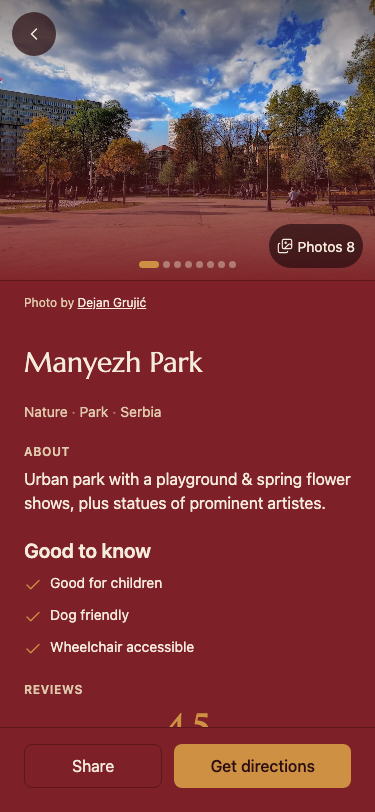
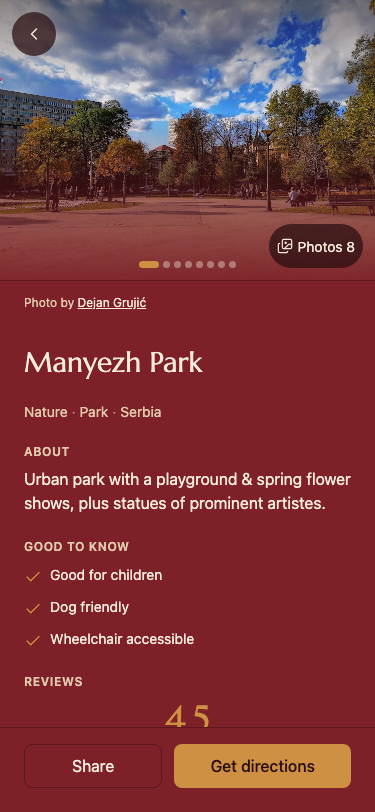
fix(app): Nightlife Open-tonight chip + unique-section heading tokens (T7 resolve)
- nightlifeTonightChip() reads open_tonight independent of opening_hours
  usability so the meta chip and HoursRow render together, per the mockup
  (was suppressed whenever structured hours were usable).
- UniqueSection heading now matches ProseBlock's muted overline tokens
  instead of a loud fontSize.lg/cream/600 treatment.
- Derive the 13-category exclusivity test array from CATEGORY_LABELS.
- Wrap priceContextLine's nested ternary, record Tours-level-chip deferral
  to T10.

Changed region(s): [[0.0587, 0.6466, 0.528, 0.8005], [0.0587, 0.8313, 0.2347, 0.8621], [0.44, 0.8621, 0.5573, 0.8929]]

diff --git a/app/src/features/activity-list/activityDetailConfig.test.ts b/app/src/features/activity-list/activityDetailConfig.test.ts
@@ -1,11 +1,14 @@
 import { Clock } from 'lucide-react-native';
 import type { Activity, OpeningHours } from '../../api/activities';
+import { CATEGORY_LABELS } from './filters';
+import type { Category } from './types';
 import {
   bodySectionOrder,
   factStripFields,
   goodToKnowSection,
   kidsAgeLabel,
   metaLineLeadItems,
+  nightlifeTonightChip,
   openStatus,
   priceContextLine,
   subtypeLabel,
@@ -178,6 +181,47 @@ describe('openStatus — structured opening_hours', () => {
   it('returns undefined for an activity with no details at all', () => {
     const activity = baseActivity(undefined);
     expect(openStatus(activity)).toBeUndefined();
+  });
+});
+
+// T7 round-2 fix: distinct from `openStatus` — reads `open_tonight` directly
+// so it renders alongside HoursRow instead of losing to (or superseding) the
+// generic hours-derived status.
+describe('nightlifeTonightChip', () => {
+  it('reads "Open tonight" from the static flag even when opening_hours is also usable', () => {
+    const activity = baseActivity({
+      category: 'nightlife',
+      open_tonight: true,
+      opening_hours: {
+        timezone: 'UTC',
+        periods: [{ day: 'monday', open: '22:00', close: '06:00' }],
+      },
+    });
+    expect(nightlifeTonightChip(activity)).toEqual({ text: 'Open tonight', isOpen: true });
+  });
+
+  it('reads "Closed tonight" from the static flag even when opening_hours computes Open', () => {
+    jest.useFakeTimers().setSystemTime(MONDAY_NOON_UTC);
+    const activity = baseActivity({
+      category: 'nightlife',
+      open_tonight: false,
+      opening_hours: {
+        timezone: 'UTC',
+        periods: [{ day: 'monday', open: '09:00', close: '17:00' }],
+      },
+    });
+    expect(nightlifeTonightChip(activity)).toEqual({ text: 'Closed tonight', isOpen: false });
+    jest.useRealTimers();
+  });
+
+  it('is undefined for a non-nightlife category regardless of open_tonight', () => {
+    const activity = baseActivity({ category: 'restaurants', open_status: 'Open now' });
+    expect(nightlifeTonightChip(activity)).toBeUndefined();
+  });
+
+  it('is undefined when nightlife has no open_tonight flag', () => {
+    const activity = baseActivity({ category: 'nightlife' });
+    expect(nightlifeTonightChip(activity)).toBeUndefined();
   });
 });
 
@@ -1076,24 +1120,19 @@ describe('uniqueSection — nightlife/nature/sport (T7)', () => {
 // T7 cross-check: the spec is explicit that the difficulty meter is Sport's
 // alone ("no category shows both" it and Tours' level chip) — pins that at
 // the promote-mechanism level, alongside ActivityDetailScreen.test.tsx's
-// render-level check.
+// render-level check. The AC's other half ("Tours & Experiences uses the
+// level chip instead") isn't asserted here or anywhere in T7: Tours has no
+// `ActivityDetails` variant / screen composition yet (T10's job, a separate
+// concurrent task). T10 (PR #134) owns that assertion directly — its Tours
+// composition test asserts `queryByLabelText(/^Difficulty:/)` is null on a
+// Tours row rendering the level chip — so it isn't duplicated here.
 describe('difficulty meter exclusivity — Sport only (T7 cross-check)', () => {
   it('is the promoted slot for sport and never appears in any other category\'s body order', () => {
-    const allCategories: Activity['category'][] = [
-      'restaurants',
-      'bars',
-      'cafes',
-      'nightlife',
-      'nature',
-      'sport',
-      'kids',
-      'culture',
-      'art',
-      'wellness',
-      'entertainment',
-      'shopping',
-      'tours_experiences',
-    ];
+    // Derived from the actual category list (not hand-written) so a 14th
+    // category added to `Category` can't silently skip this assertion —
+    // `CATEGORY_LABELS` is `Record<Category, string>`, exhaustive by
+    // construction (filters.ts).
+    const allCategories = Object.keys(CATEGORY_LABELS) as Category[];
     for (const category of allCategories) {
       expect(bodySectionOrder(category).includes('difficulty')).toBe(category === 'sport');
     }

diff --git a/app/src/features/activity-list/activityDetailConfig.ts b/app/src/features/activity-list/activityDetailConfig.ts
@@ -308,7 +308,12 @@ export function wellnessBookingNote(activity: Activity): string | undefined {
 export function priceContextLine(activity: Activity): string | undefined {
   const d = activity.details;
   if (!d) return undefined;
-  const raw = d.category === 'entertainment' ? d.price_from : d.category === 'nightlife' ? d.entry_price : undefined;
+  const raw =
+    d.category === 'entertainment'
+      ? d.price_from
+      : d.category === 'nightlife'
+        ? d.entry_price
+        : undefined;
   const price = classifyField('scalar', raw);
   return price ? `From ${price}` : undefined;
 }
@@ -543,6 +548,24 @@ export function openStatus(
     };
   }
   return undefined;
+}
+
+// T7 round-2 fix: the mockup's Nightlife screen renders the `Open tonight`
+// meta chip *and* the HoursRow underneath at once (`Open 23:00 – 06:00`) —
+// two different questions, not one superseded by the other. `openStatus`
+// above deliberately can't answer both: its hours-first branch order is
+// correct for HoursRow's own present-tense label (tested — hours supersede
+// the "tonight" wording there), which is exactly wrong for this chip, and
+// its `!todayRow` single-home suppression (ActivityDetailScreen) hides the
+// chip whenever hours are usable. This reads `open_tonight` directly,
+// independent of hours usability, so the caller can render it unconditionally
+// alongside HoursRow instead of choosing one or the other.
+export function nightlifeTonightChip(
+  activity: Activity,
+): { text: string; isOpen: boolean } | undefined {
+  const d = activity.details;
+  if (!d || d.category !== 'nightlife' || d.open_tonight === undefined) return undefined;
+  return { text: d.open_tonight ? 'Open tonight' : 'Closed tonight', isOpen: d.open_tonight };
 }
 
 // opening-hours T1: Monday-first display order for the week view.

diff --git a/app/src/features/activity-list/ActivityDetailScreen.tsx b/app/src/features/activity-list/ActivityDetailScreen.tsx
@@ -45,6 +45,7 @@ import {
   kidsAgeLabel,
   metaLineLeadItems,
   metaRowExtras,
+  nightlifeTonightChip,
   openStatus,
   priceContextLine,
   PRIMARY_CTA_LABEL,
@@ -238,6 +239,10 @@ export function ActivityDetailScreen({
   // into the standalone HoursRow (see below), this flag now only gates the
   // meta-row suppression.
   const todayRow = todayHoursRow(activity);
+  // T7 round-2 fix: Nightlife's `Open tonight` meta chip is a different slot
+  // from the generic status chip below — the mockup renders it *alongside*
+  // HoursRow, never suppressed by `todayRow` the way the generic chip is.
+  const metaChipStatus = nightlifeTonightChip(activity) ?? (status && !todayRow ? status : undefined);
   // opening-hours T2: same usability gate as `todayRow` — defined exactly
   // when the Hours row's tap affordance below should be interactive.
   const weekData = weekHoursModalData(activity);
@@ -552,7 +557,16 @@ export function ActivityDetailScreen({
                   : undefined
               }
               items={[...metaExtras, foldedFactChip?.value]}
-              chip={status && !todayRow ? { kind: 'status', text: status.text, isOpen: status.isOpen } : undefined}
+              // T7 round-2 fix: Nightlife's `Open tonight` chip (folded into
+              // `metaChipStatus` above) takes priority over, and unlike, the
+              // generic status chip is never suppressed by `todayRow` — the
+              // mockup shows the chip and HoursRow together, not one
+              // replacing the other.
+              chip={
+                metaChipStatus
+                  ? { kind: 'status', text: metaChipStatus.text, isOpen: metaChipStatus.isOpen }
+                  : undefined
+              }
             />
           )}
 

diff --git a/app/src/features/activity-list/ActivityDetailScreen.test.tsx b/app/src/features/activity-list/ActivityDetailScreen.test.tsx
@@ -631,6 +631,33 @@ describe('ActivityDetailScreen', () => {
       expect(screen.getByText('Open tonight')).toBeTruthy();
     });
 
+    // T7 round-2 fix: `open_tonight` and `opening_hours` used to both feed
+    // `openStatus`, so a row with usable structured hours lost the "Open
+    // tonight" chip entirely (superseded by the generic hours-derived
+    // status, then suppressed a second time by the `!todayRow` gate) — the
+    // mockup renders the chip *and* the HoursRow together.
+    it('renders the Open tonight chip alongside the HoursRow when opening_hours is also usable', () => {
+      jest.useFakeTimers().setSystemTime(new Date('2024-01-01T12:00:00Z')); // Monday, noon UTC
+      const nightlife: Activity = {
+        ...activity,
+        category: 'nightlife',
+        details: {
+          category: 'nightlife',
+          open_tonight: true,
+          opening_hours: {
+            timezone: 'UTC',
+            periods: [{ day: 'monday', open: '22:00', close: '06:00' }],
+          },
+        },
+      };
+      render(
+        <ActivityDetailScreen activity={nightlife} showDistance onBack={jest.fn()} />,
+      );
+      expect(screen.getByText('Open tonight')).toBeTruthy();
+      expect(screen.getByRole('button', { name: 'See full opening hours' })).toBeTruthy();
+      jest.useRealTimers();
+    });
+
     it("shows Entertainment's neighborhood inline in the meta row instead of a fact strip", () => {
       const entertainment: Activity = {
         ...activity,

diff --git a/app/src/features/activity-list/UniqueSection.tsx b/app/src/features/activity-list/UniqueSection.tsx
@@ -213,10 +213,16 @@ const styles = StyleSheet.create({
   section: {
     gap: space[3],
   },
+  // T7 round-2 fix: matches ProseBlock's heading tokens exactly — every
+  // unique-section heading in the mockup is a 12px uppercase muted overline
+  // (same treatment as the "ABOUT" description heading on the same screen),
+  // not a loud cream sentence-case heading.
   heading: {
-    fontSize: fontSize.lg,
+    fontSize: fontSize.xs,
+    textTransform: 'uppercase',
+    letterSpacing: fontSize.xs * 0.05,
+    color: colors.textMuted,
     fontWeight: '600',
-    color: colors.text,
   },
   // Shape A — name+price list
   nameRow: {
